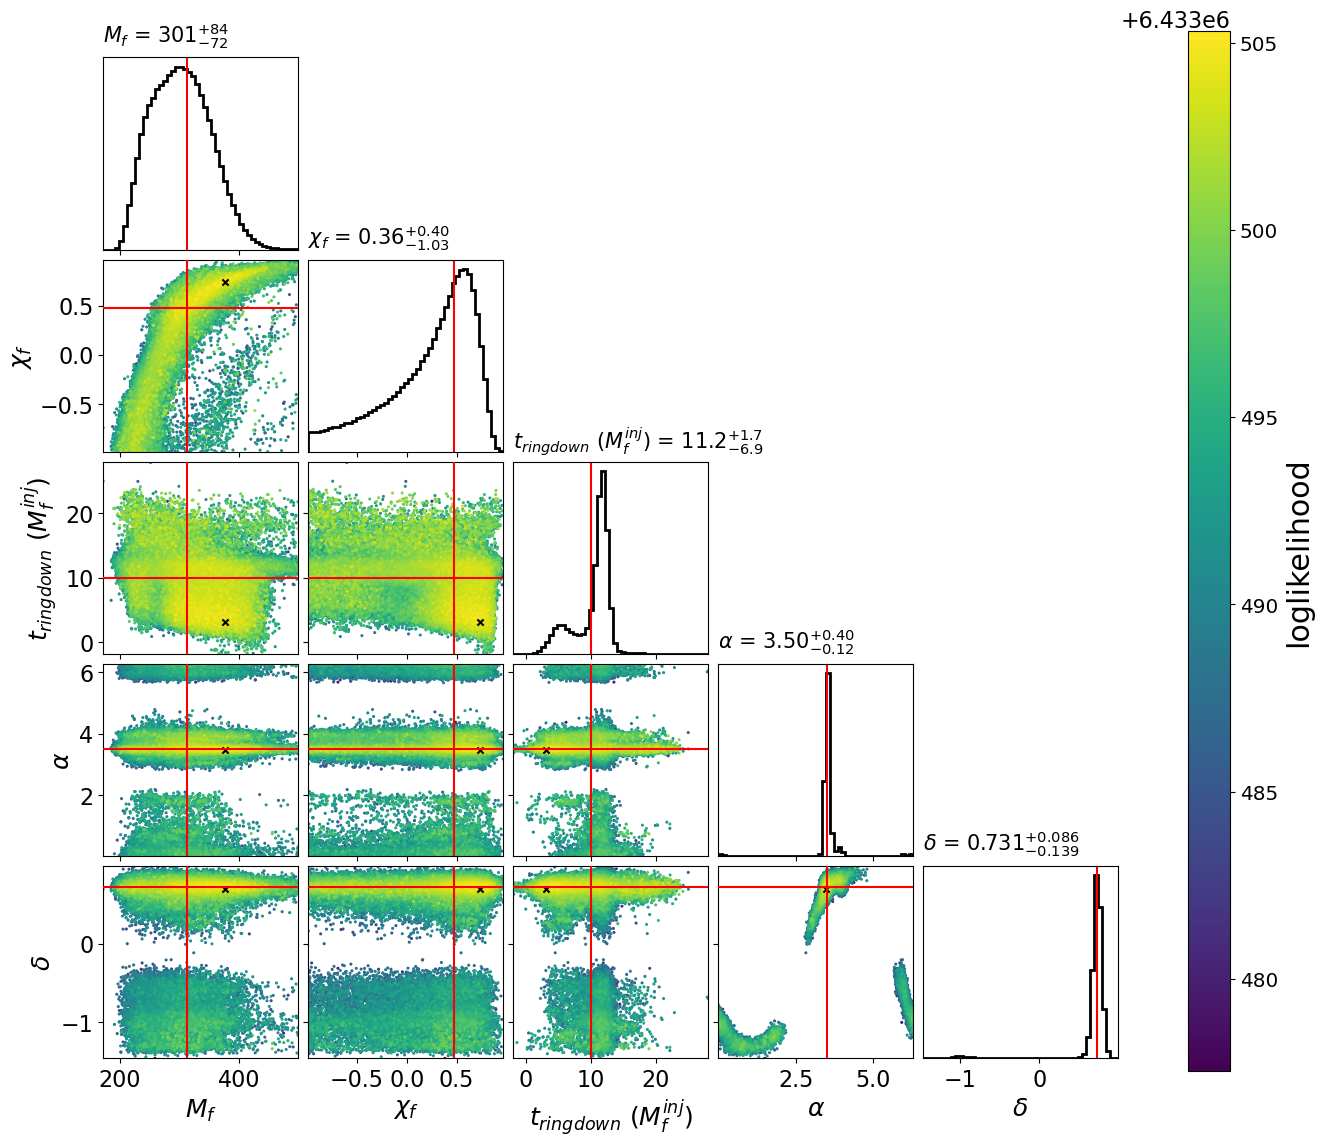
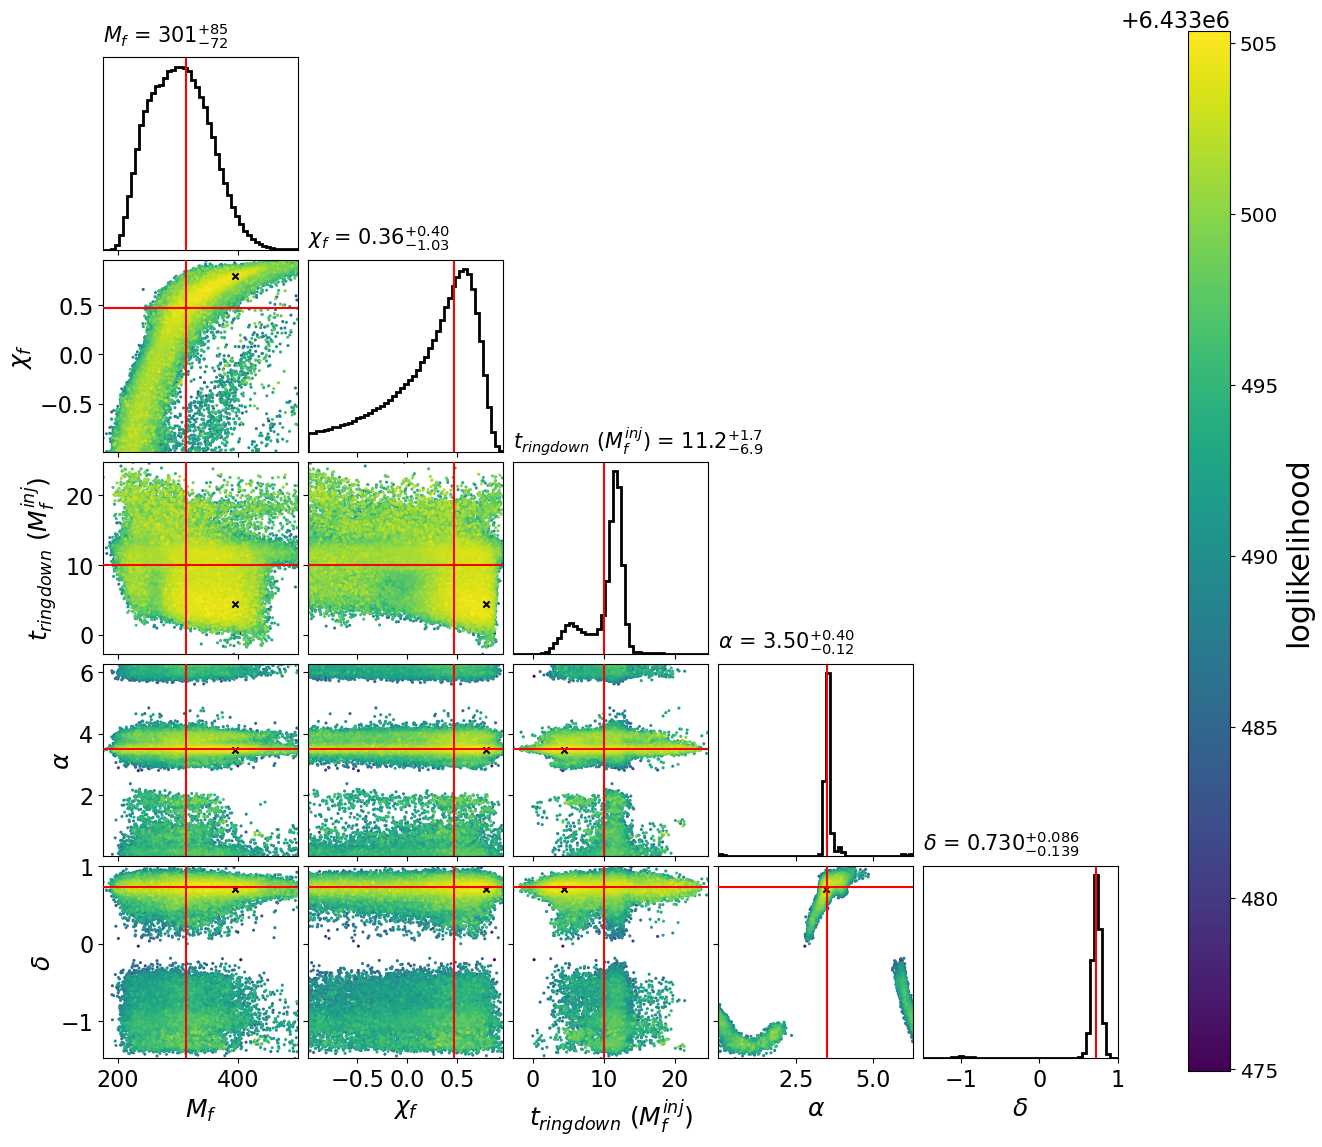
update combined results for q=4 and q=8 injections

diff --git a/runs/gw190521_injections/seobnr_q8_nonspin_snr20/results.md b/runs/gw190521_injections/seobnr_q8_nonspin_snr20/results.md
@@ -1,5 +1,9 @@
 # Ringdown mode comparison
 
+## Combined posterior from all runs
+
+![Combined posterior from all runs](combined_common.png)
+
 ## Log evidence
 
 Δ ln Z is each run's log evidence minus that of the matching 220-only run
@@ -30,6 +34,7 @@
 | 220+330, negative mode | 6433464.352 ± 0.046 | 2.094 ± 0.066 |
 | 220+330, negative mode, 2 wavelet | 6433463.486 ± 0.077 | 1.228 ± 0.090 |
 | 220+330+210, negative mode | 6433465.442 ± 0.043 | 3.184 ± 0.064 |
+| 220+330+210, negative mode, 2 wavelet | 6433463.573 ± 0.060 | 1.316 ± 0.076 |
 | 220+440, negative mode | 6433463.100 ± 0.051 | 0.842 ± 0.069 |
 | 220+440, negative mode, 2 wavelet | 6433462.329 ± 0.075 | 0.071 ± 0.089 |
 
@@ -54,7 +59,6 @@
 - qnmd220_210_320-3wavelet: no .hdf file
 - qnmd220_221-3wavelet: no .hdf file
 - qnmd220_330-3wavelet: no .hdf file
-- qnmd220_330_210-2wavelet: no .hdf file
 - qnmd220_330_210-3wavelet: no .hdf file
 - qnmd220_440-3wavelet: no .hdf file
 
@@ -159,6 +163,10 @@
 ### 220+221, negative mode, 2 wavelet
 
 ![220+221, negative mode, 2 wavelet](wav2_d221.png)
+
+### 220+330+210, negative mode, 2 wavelet
+
+![220+330+210, negative mode, 2 wavelet](wav2_d330_210.png)
 
 ### 220+330, negative mode, 2 wavelet
 

diff --git a/runs/gw190521_injections/nrsur_q4_nonspin_snr20/results.md b/runs/gw190521_injections/nrsur_q4_nonspin_snr20/results.md
@@ -1,5 +1,9 @@
 # Ringdown mode comparison
 
+## Combined posterior from all runs
+
+![Combined posterior from all runs](combined_common.png)
+
 ## Log evidence
 
 Δ ln Z is each run's log evidence minus that of the matching 220-only run

diff --git a/runs/gw190521_injections/nrsur_q4_nonspin_snr30/results.md b/runs/gw190521_injections/nrsur_q4_nonspin_snr30/results.md
@@ -1,5 +1,9 @@
 # Ringdown mode comparison
 
+## Combined posterior from all runs
+
+![Combined posterior from all runs](combined_common.png)
+
 ## Log evidence
 
 Δ ln Z is each run's log evidence minus that of the matching 220-only run
